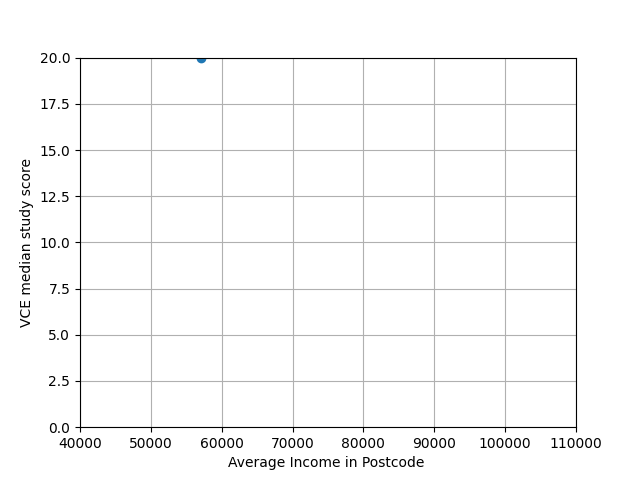
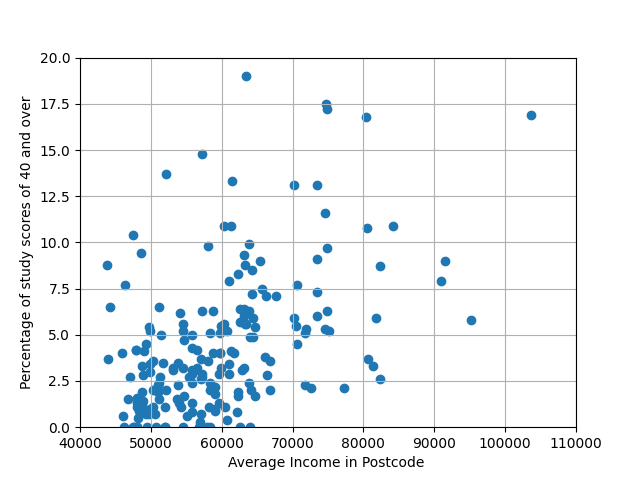
fixed bug in graph

diff --git a/scripts/visualisations.py b/scripts/visualisations.py
@@ -13,10 +13,10 @@ def scatter_plot(
         csv_filename=DEFAULT_CSV, 
         x_column='Average Income in Postcode ',
         x_label='Average Income in Postcode',
-        x_min=40000, x_max=110000,
+        x_range=[40000, 110000],
         y_column='VCE median study score',
         y_label='VCE Median Study Score',
-        y_min=18, y_max=50,
+        y_range=[18, 50],
         png_filename=DEFAULT_PNG):
     """
         take a CSV file and draw up a scatter plot from the relevant columns
@@ -32,8 +32,8 @@ def scatter_plot(
     plt.figure()
     plt.scatter(x_data, y_data)
     plt.grid(True)
-    plt.xlim(x_min, x_max)
-    plt.ylim(y_min, y_max)
+    plt.xlim(x_range[0], x_range[1])
+    plt.ylim(y_range[0], y_range[1])
     plt.xlabel(x_column)
     plt.ylabel(y_column)
     plt.savefig(png_filename)
@@ -43,5 +43,6 @@ if __name__ == "__main__":
     scatter_plot(png_filename='visualisations/income_vs_study_score.png')
     scatter_plot(
             y_label='Percentage of study scores of 40 and over',
-            y_min=0, y_max=20,
+            y_column='Percentage of study scores of 40 and over',
+            y_range=[0,20],
             png_filename='visualisations/income_vs_over_40_scores.png')
